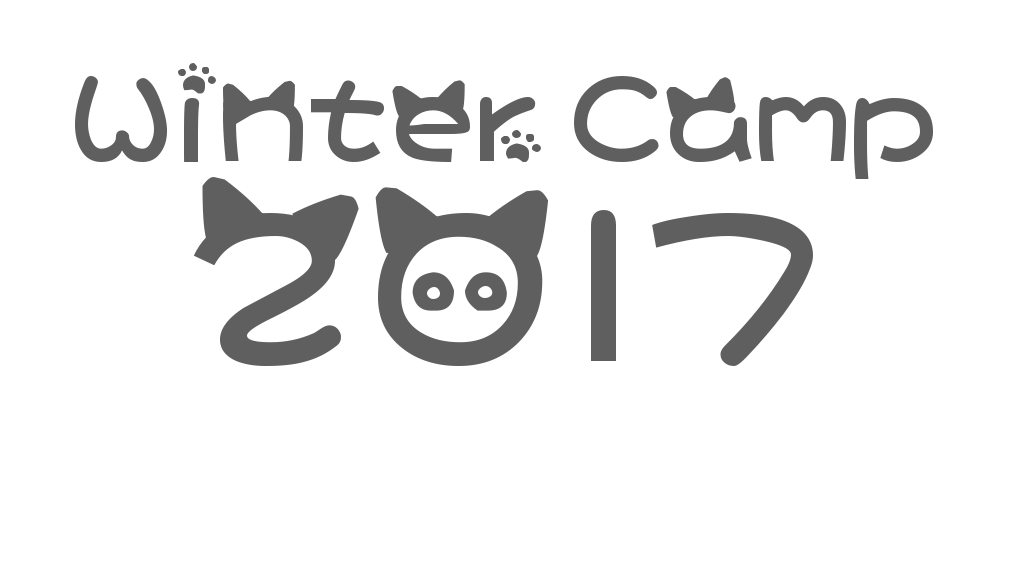
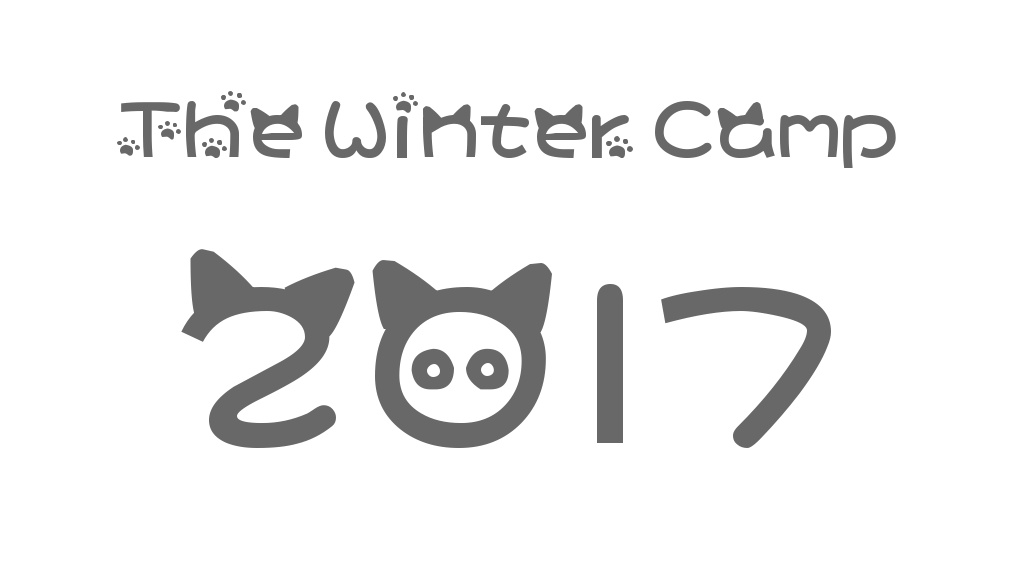
updateLogo

Changed region(s): [[0.1562, 0.3125, 0.8125, 0.7812], [0.0625, 0.0938, 0.9375, 0.3125]]

diff --git a/client/modules/home/home.html b/client/modules/home/home.html
@@ -1,3 +1,3 @@
 <div class='container-fluid'>
-	<img src='/images/twc.png' style='width: 72%; margin: auto; margin-top: 12%; display: block;'/>
+	<img src='/images/twc.png' style='width: 100%; display: block;'/>
 </div>
